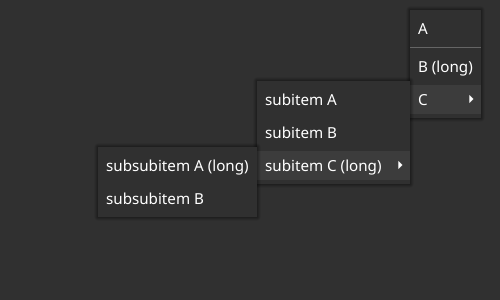
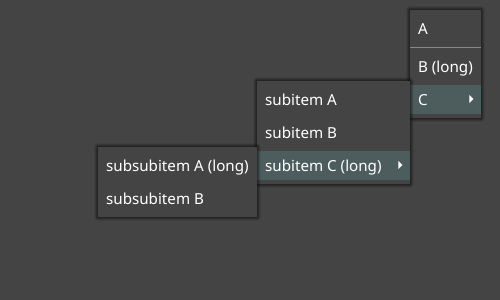
menu tests use new test theme

Changed region(s): [[0.51, 0.48, 0.84, 0.6], [0.81, 0.27, 0.96, 0.39], [0.84, 0.15, 0.96, 0.18]]

diff --git a/widget/menu_desktop_test.go b/widget/menu_desktop_test.go
@@ -10,14 +10,12 @@ import (
 	"fyne.io/fyne/canvas"
 	internalWidget "fyne.io/fyne/internal/widget"
 	"fyne.io/fyne/test"
-	"fyne.io/fyne/theme"
 	"fyne.io/fyne/widget"
 )
 
 func TestMenu_Layout(t *testing.T) {
 	test.NewApp()
 	defer test.NewApp()
-	test.ApplyTheme(t, theme.DarkTheme())
 
 	w := test.NewWindow(canvas.NewRectangle(color.Transparent))
 	defer w.Close()
@@ -133,7 +131,6 @@ func TestMenu_Layout(t *testing.T) {
 func TestMenu_Scrolling(t *testing.T) {
 	test.NewApp()
 	defer test.NewApp()
-	test.ApplyTheme(t, theme.DarkTheme())
 
 	w := test.NewWindow(canvas.NewRectangle(color.Transparent))
 	defer w.Close()

diff --git a/widget/menu_mobile_test.go b/widget/menu_mobile_test.go
@@ -10,14 +10,12 @@ import (
 	"fyne.io/fyne/canvas"
 	internalWidget "fyne.io/fyne/internal/widget"
 	"fyne.io/fyne/test"
-	"fyne.io/fyne/theme"
 	"fyne.io/fyne/widget"
 )
 
 func TestMenu_Layout(t *testing.T) {
 	test.NewApp()
 	defer test.NewApp()
-	test.ApplyTheme(t, theme.DarkTheme())
 
 	w := test.NewWindow(canvas.NewRectangle(color.Transparent))
 	defer w.Close()
@@ -133,7 +131,6 @@ func TestMenu_Layout(t *testing.T) {
 func TestMenu_Dragging(t *testing.T) {
 	test.NewApp()
 	defer test.NewApp()
-	test.ApplyTheme(t, theme.DarkTheme())
 
 	w := test.NewWindow(canvas.NewRectangle(color.Transparent))
 	defer w.Close()
